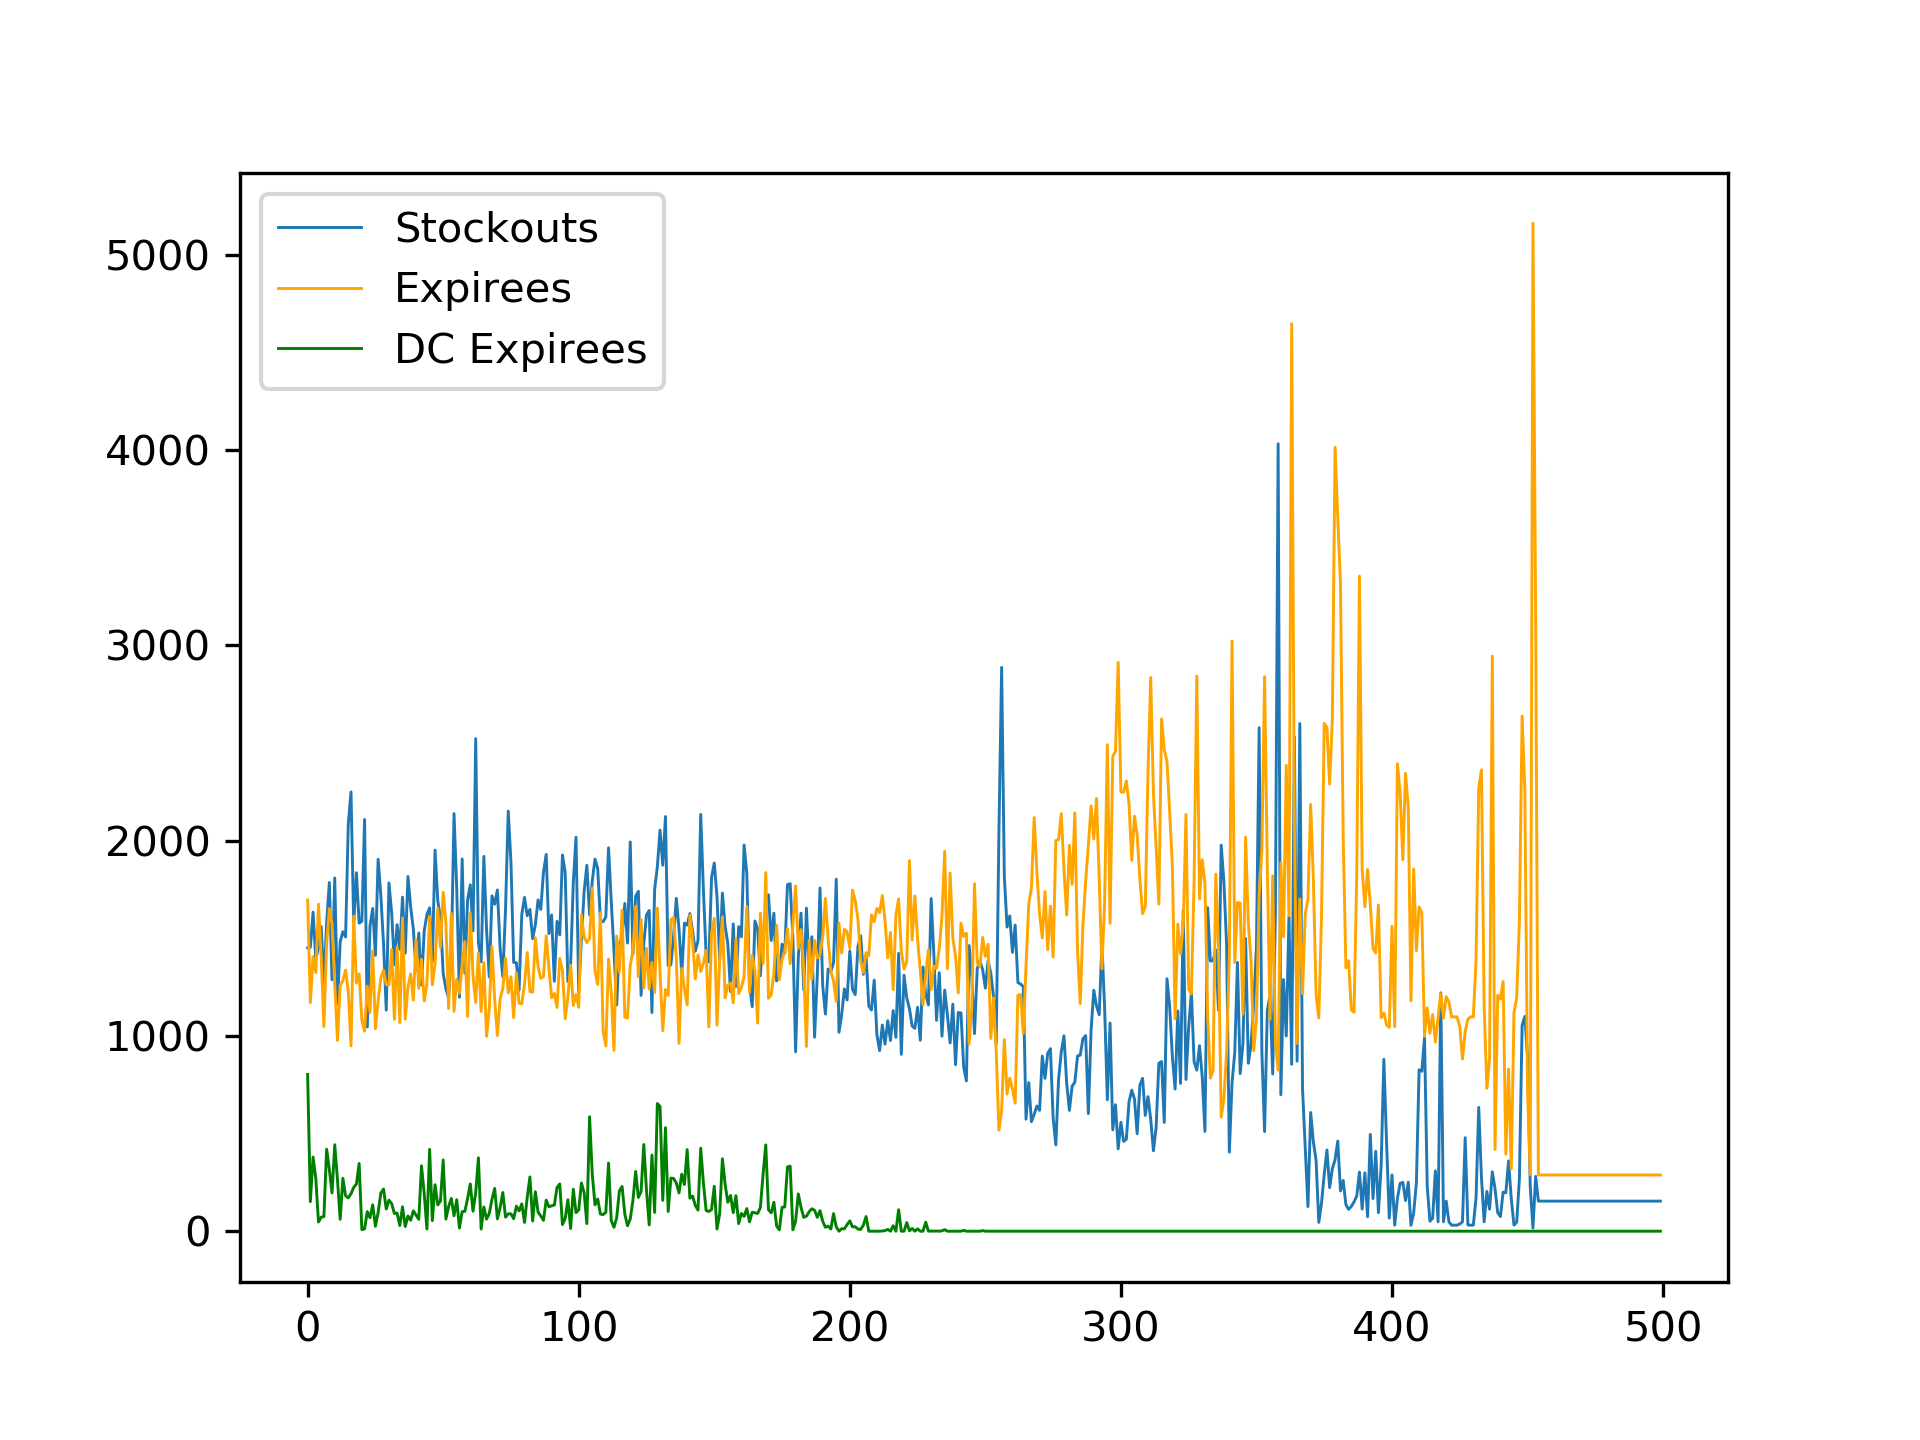
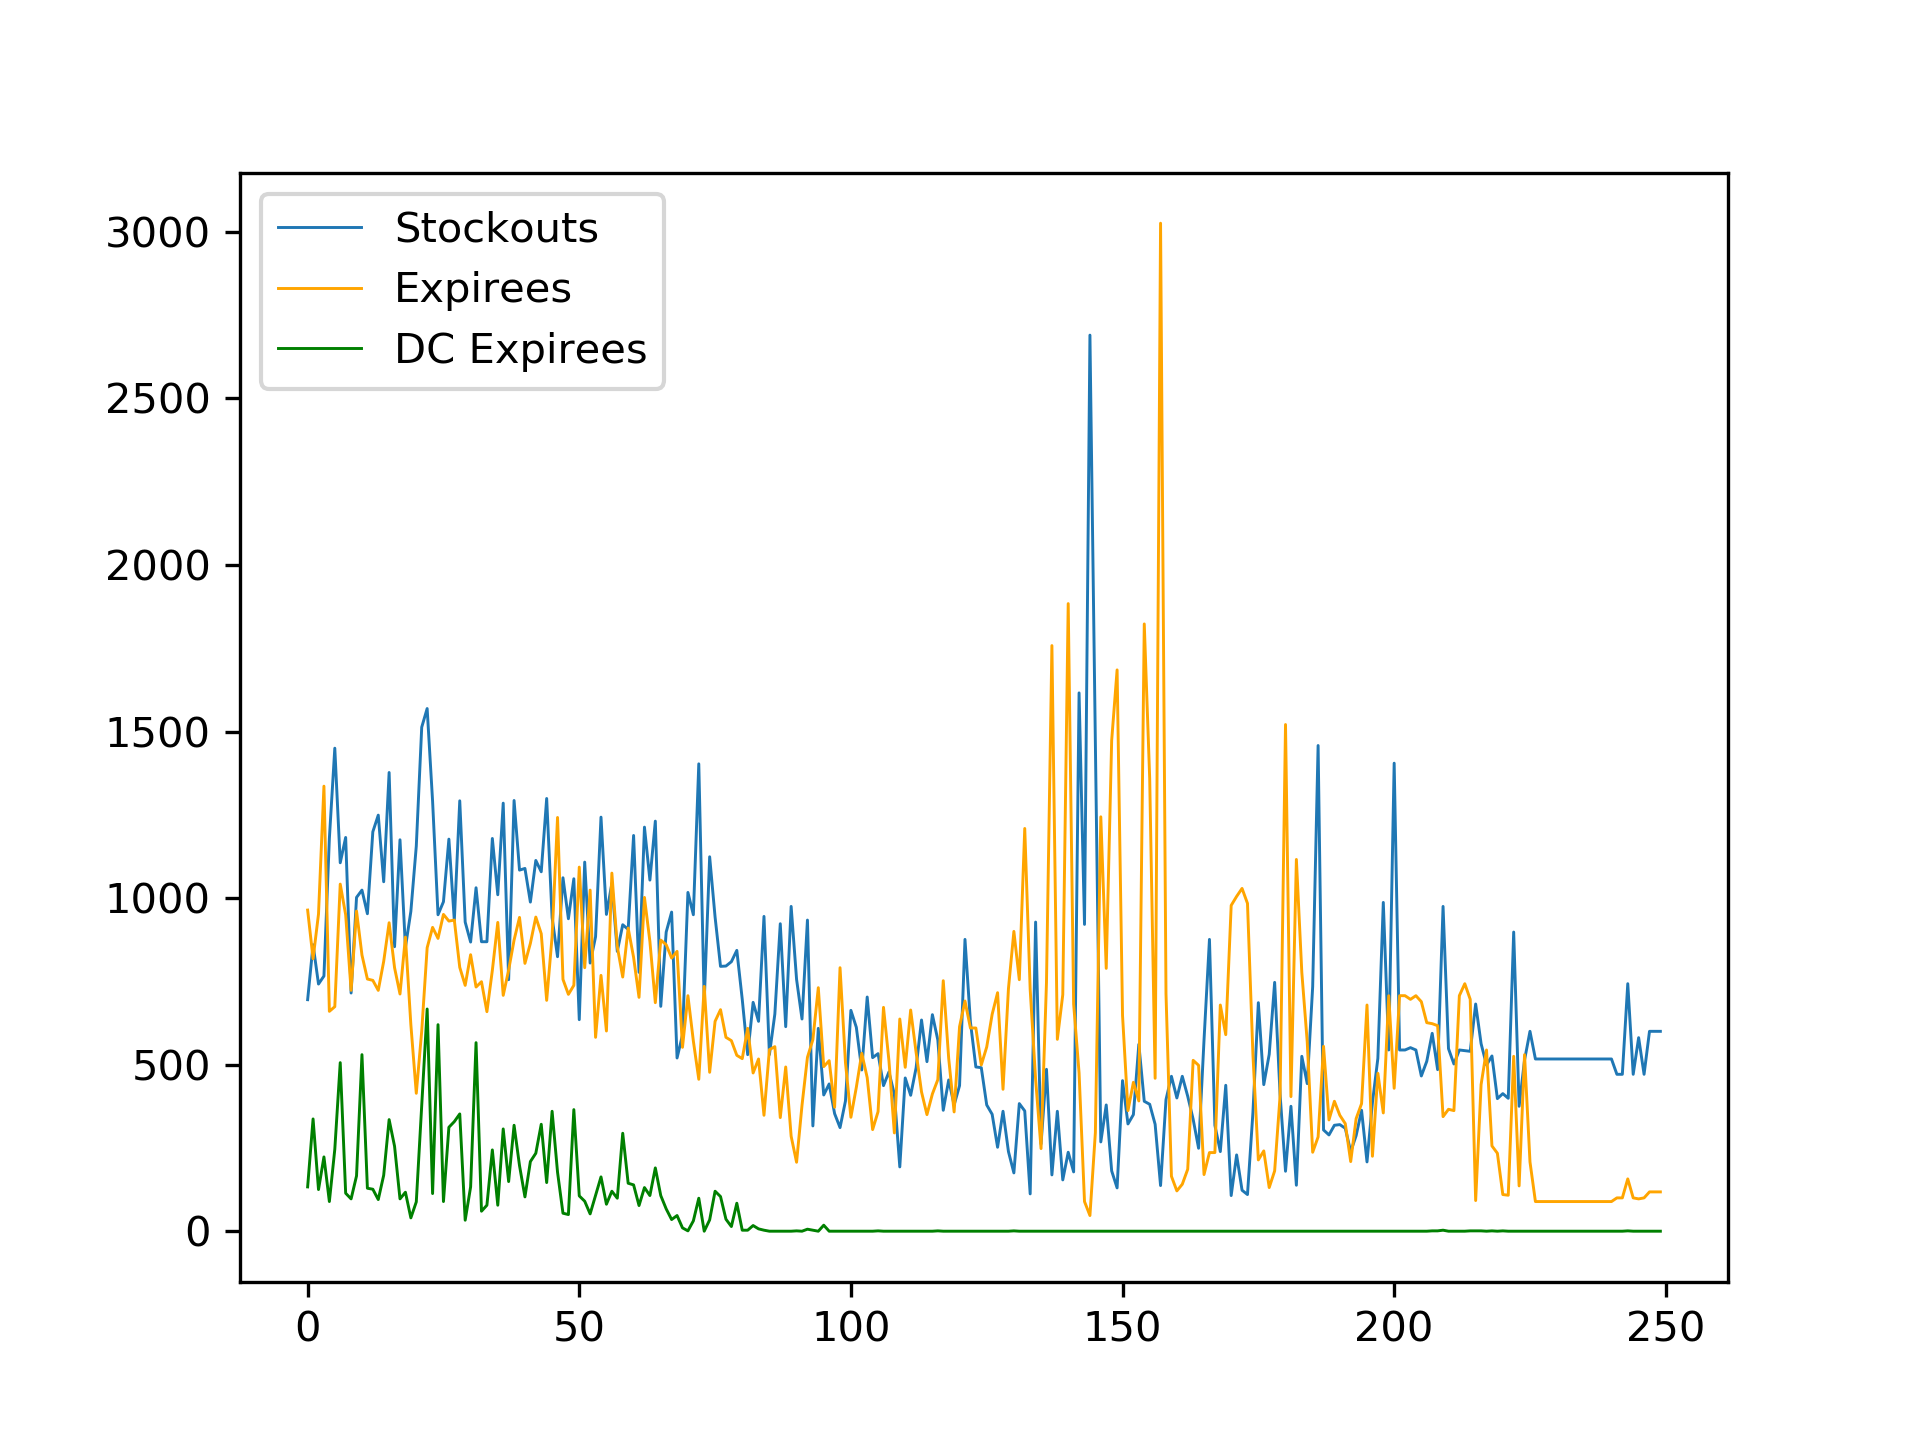
Minor fixes and changes

diff --git a/VMIwithDRL/src/agent_model/training_agent_torch3.py b/VMIwithDRL/src/agent_model/training_agent_torch3.py
@@ -11,6 +11,7 @@ from math import cos
 from math import pi
 import matplotlib.pyplot as plt
 import os
+from statistics import mean
 import time
 
 import time
@@ -30,22 +31,19 @@ class NN(nn.Module):
         # x=self.norm(x)
         x = self.l1(x)
         # x = F.relu(x)
-        x=torch.sigmoid(x)
-        #x = F.sigmoid(x)
+        x = torch.sigmoid(x)
+        # x = F.sigmoid(x)
         x = self.l2(x)
-        #x = F.sigmoid(x)
+        # x = F.sigmoid(x)
         x = torch.sigmoid(x)
         x = self.l3(x)
         # x=F.tanh(x)
-        #x = F.relu(x)
+        # x = F.relu(x)
         x = torch.sigmoid(x)
         return self.l4(x)
 
 
-
 class TrainingAgent:
-
-
 
     def __init__(self, model, runs, steps_per_run, batch_size, min_epsilon=0.05, gamma=0.99,
                  memory=5000, use_gpu=False, epsilon_min_percentage=0.1, epsilon_function='linear'):
@@ -58,10 +56,13 @@ class TrainingAgent:
             self.epsilon_function = self.constant_epsilon
         elif epsilon_function == 'cos':
             self.epsilon_function = self.cos_epsilon
-        elif epsilon_function=='gompertz':
-            self.epsilon_function=self.gompertz_epsilon
+        elif epsilon_function == 'gompertz':
+            self.epsilon_function = self.gompertz_epsilon
+        elif epsilon_function == 'consv2':
+            self.epsilon_function = self.constant_v2_epsilon
         else:
-            raise Exception('The epsilon_function parameter must be one of these types: (linear, log, constant, cos , gompertz).')
+            raise Exception(
+                'The epsilon_function parameter must be one of these types: (linear, log, constant, cos , gompertz, consv2).')
         self.model = model
         self.memory = Memory(memory)
         self.epsilon = 1
@@ -79,13 +80,14 @@ class TrainingAgent:
             self.q_network.to("cuda")
         else:
             print("Training model on CPU.")
-        #self.loss = nn.SmoothL1Loss()
-        self.loss=nn.MSELoss()
+        self.loss = nn.SmoothL1Loss()
+        #self.loss = nn.MSELoss()
         self.optizer = optim.Adam(self.q_network.parameters(), amsgrad=True)
 
     def run(self, validateRuns=None):
         avg_q_val = {}
         run_rewards = []
+        time_sum = deque(maxlen=10)
         for run in range(self.runs):
 
             start_time = time.time()
@@ -97,6 +99,7 @@ class TrainingAgent:
             current_state = self.model.initial_state
             terminate = False
             run_step_count = 0
+            memory_full_at_start=len(self.memory.memory) >= self.memory.memory.maxlen
             while not terminate:
                 action = 0
                 if np.random.rand() <= epsilon:
@@ -138,15 +141,20 @@ class TrainingAgent:
                     terminate = True
             run_rewards.append(total_reward)
 
-            exec_time = time.time() - start_time
-            eta = exec_time * (self.runs - run - 1)
-            eta_hours = eta / 3600.0
-            eta_minutes = int((eta_hours - int(eta_hours)) * 60)
-            eta_hours=int(eta_hours)
+            if memory_full_at_start:
+                exec_time = time.time() - start_time
+                time_sum.append(exec_time)
+                time_avg =mean(time_sum)
+                eta = time_avg * (self.runs - run - 1)
+                eta_hours = eta / 3600.0
+                eta_minutes = int((eta_hours - int(eta_hours)) * 60)+1
+                eta_hours = int(eta_hours)
 
-
-            print('\rRun: {0:8d} || Reward: {1:12.2f} || Epsilon: {2:6.3%} || ETA: {3:2d} hours {4:2d} minutes'
-                  .format(run, total_reward, epsilon, eta_hours, eta_minutes), end=''),
+                print('\rRun: {0:8d} || Reward: {1:12.2f} || Epsilon: {2:6.3%} || ETA: {3:2d} hours {4:2d} minutes'
+                      .format(run, total_reward, epsilon, eta_hours, eta_minutes), end=''),
+            else:
+                print('\rRun: {0:8d} || Reward: {1:12.2f} || Epsilon: {2:6.3%} || ETA: Estimating...'
+                      .format(run, total_reward, epsilon), end=''),
             # print("Run: ", run, "Reward: ", total_reward, "Epsilon: ", epsilon, "ETA: ",
             #       exec_time * (self.runs - run - 1))
             #         style.use("ggplot")
@@ -155,7 +163,7 @@ class TrainingAgent:
             #         pyplot.ylabel("Total Reward")
             #         pyplot.show()
 
-            #print(run, ":", total_reward, ":", epsilon)
+            # print(run, ":", total_reward, ":", epsilon)
         #         style.use("ggplot")
         #         pyplot.scatter(range(0, len(run_rewards)), run_rewards)
         #         pyplot.xlabel("Run")
@@ -166,13 +174,13 @@ class TrainingAgent:
             m = avg_q_val[i]
             avg_q_val[i] = sum(m) / len(m)
         # df=pd.DataFrame({da})
-        plt.plot(list(avg_q_val.keys()), list(avg_q_val.values()), label='Avg.Q',linewidth=0.5)
+        plt.plot(list(avg_q_val.keys()), list(avg_q_val.values()), label='Avg.Q', linewidth=0.5)
         plt.legend(loc='upper left')
         dirname = os.path.dirname(__file__)
         filename = os.path.join(dirname, '../output/q.png')
         plt.savefig(filename, dpi=300)
         plt.show()
-        #torch.save(self.q_network, "model")
+        # torch.save(self.q_network, "model")
         if validateRuns:
             print("Validation Runs:")
             for i in range(validateRuns):
@@ -259,13 +267,15 @@ class TrainingAgent:
         return max(self.min_epsilon,
                    ((self.min_epsilon - 1) / ln((1 - self.epsilon_min_percentage) * self.runs)) * ln(run + 1) + 1)
 
-    def gompertz_epsilon(self,run):
-        m=int((1-self.epsilon_min_percentage)*self.runs)
-        aux=-2*ln(((-2*ln(0.5))/(m-1)))/(m-1)
-        ep=1-(1-self.min_epsilon)*exp((-((m-1)/ 2))*exp(-aux*run))
-        return ep if run<=m else self.min_epsilon
+    def gompertz_epsilon(self, run):
+        m = int((1 - self.epsilon_min_percentage) * self.runs)
+        aux = -2 * ln(((-2 * ln(0.5)) / (m - 1))) / (m - 1)
+        ep = 1 - (1 - self.min_epsilon) * exp((-((m - 1) / 2)) * exp(-aux * run))
+        return ep if run <= m else self.min_epsilon
 
-
+    def constant_v2_epsilon(self, run):
+        m = int((1 - self.epsilon_min_percentage) * self.runs)
+        return 0.0 if run >= m else self.min_epsilon
 
     def cos_epsilon(self, run):
         # ((0.5*COS(H5*PI()/5))+0.5)*(1-(H5/350))

diff --git a/VMIwithDRL/src/implementation/VMImodel.py b/VMIwithDRL/src/implementation/VMImodel.py
@@ -1,7 +1,7 @@
 from implementation.hospital import Hospital
 import numpy as np
-from implementation.optimizer.AllocationOptimizerHeuristica import AllocationOptimizer
-# from implementation.optimizer.AllocationOptimizerGoalProgramming3 import AllocationOptimizer
+#from implementation.optimizer.AllocationOptimizerHeuristica import AllocationOptimizer
+from implementation.optimizer.AllocationOptimizerGoalProgramming3 import AllocationOptimizer
 
 from agent_model.model import Model
 # from optimizer.AllocationOptimizerCplexDocPlex import AllocationOptimizer
@@ -61,7 +61,9 @@ class VMI(Model):
                                   len(self.hospitals))
 
         # opt = AllocationOptimizer(II, A_i, demands, self.exp_cost, self.stockout_cost, self.shelf_life, len(self.hospitals))
+
         rep, used_model = opt.allocate()
+        #print("Day ",self.year_day, rep)
 
         # print(rep)
         reward = 0

diff --git a/VMIwithDRL/src/test_script.py b/VMIwithDRL/src/test_script.py
@@ -40,10 +40,10 @@ def send_mail():
 if __name__ =='__main__':
     initial_state = [0, 0, 0, 0, 0, 1, 0, 0, 0, 0]
     # print(tensorflow.test.is_gpu_available())
-    train_runs=500
+    train_runs=250
     model = VMI(4, 100, 5, initial_state, 5, 100)
-    agent = TrainingAgent(model=model, runs=train_runs, steps_per_run=365, batch_size=32, memory=1825, use_gpu=True,
-                          epsilon_function='gompertz', min_epsilon=0, epsilon_min_percentage=0.1)
+    agent = TrainingAgent(model=model, runs=train_runs, steps_per_run=365, batch_size=150, memory=1825, use_gpu=True,
+                          epsilon_function='gompertz', min_epsilon=0.01, epsilon_min_percentage=0.3)
     rewards = agent.run()
     log = model.log
     expirees = []

diff --git a/VMIwithDRL/src/comparacion.py b/VMIwithDRL/src/comparacion.py
@@ -6,9 +6,9 @@ import os
 import concurrent.futures
 
 if __name__ == '__main__':
-    functions = ['log', 'linear', 'cos', 'gompertz']
+    functions = ['log', 'linear', 'cos', 'gompertz','constant','consv2']
 
-    with concurrent.futures.ThreadPoolExecutor(max_workers=4) as executor:
+    with concurrent.futures.ThreadPoolExecutor(max_workers=6) as executor:
         # print(tensorflow.test.is_gpu_available())
         train_runs = 500
         results = {executor.submit(

diff --git a/VMIwithDRL/src/implementation/optimizer/AllocationOptimizerGoalProgramming3.py b/VMIwithDRL/src/implementation/optimizer/AllocationOptimizerGoalProgramming3.py
@@ -132,7 +132,7 @@ class AllocationOptimizer():
             #                 2] <= (
             #                                        mdl.sum([self.II[3][r] for (r) in self.R]) + mdl.sum([x[3, r] for (r) in self.R])) /
             #                                self.D[3])
-
+            mdl.set_time_limit(5)
             mdl.solve()
 
             # The status of the solution is printed to the screen
